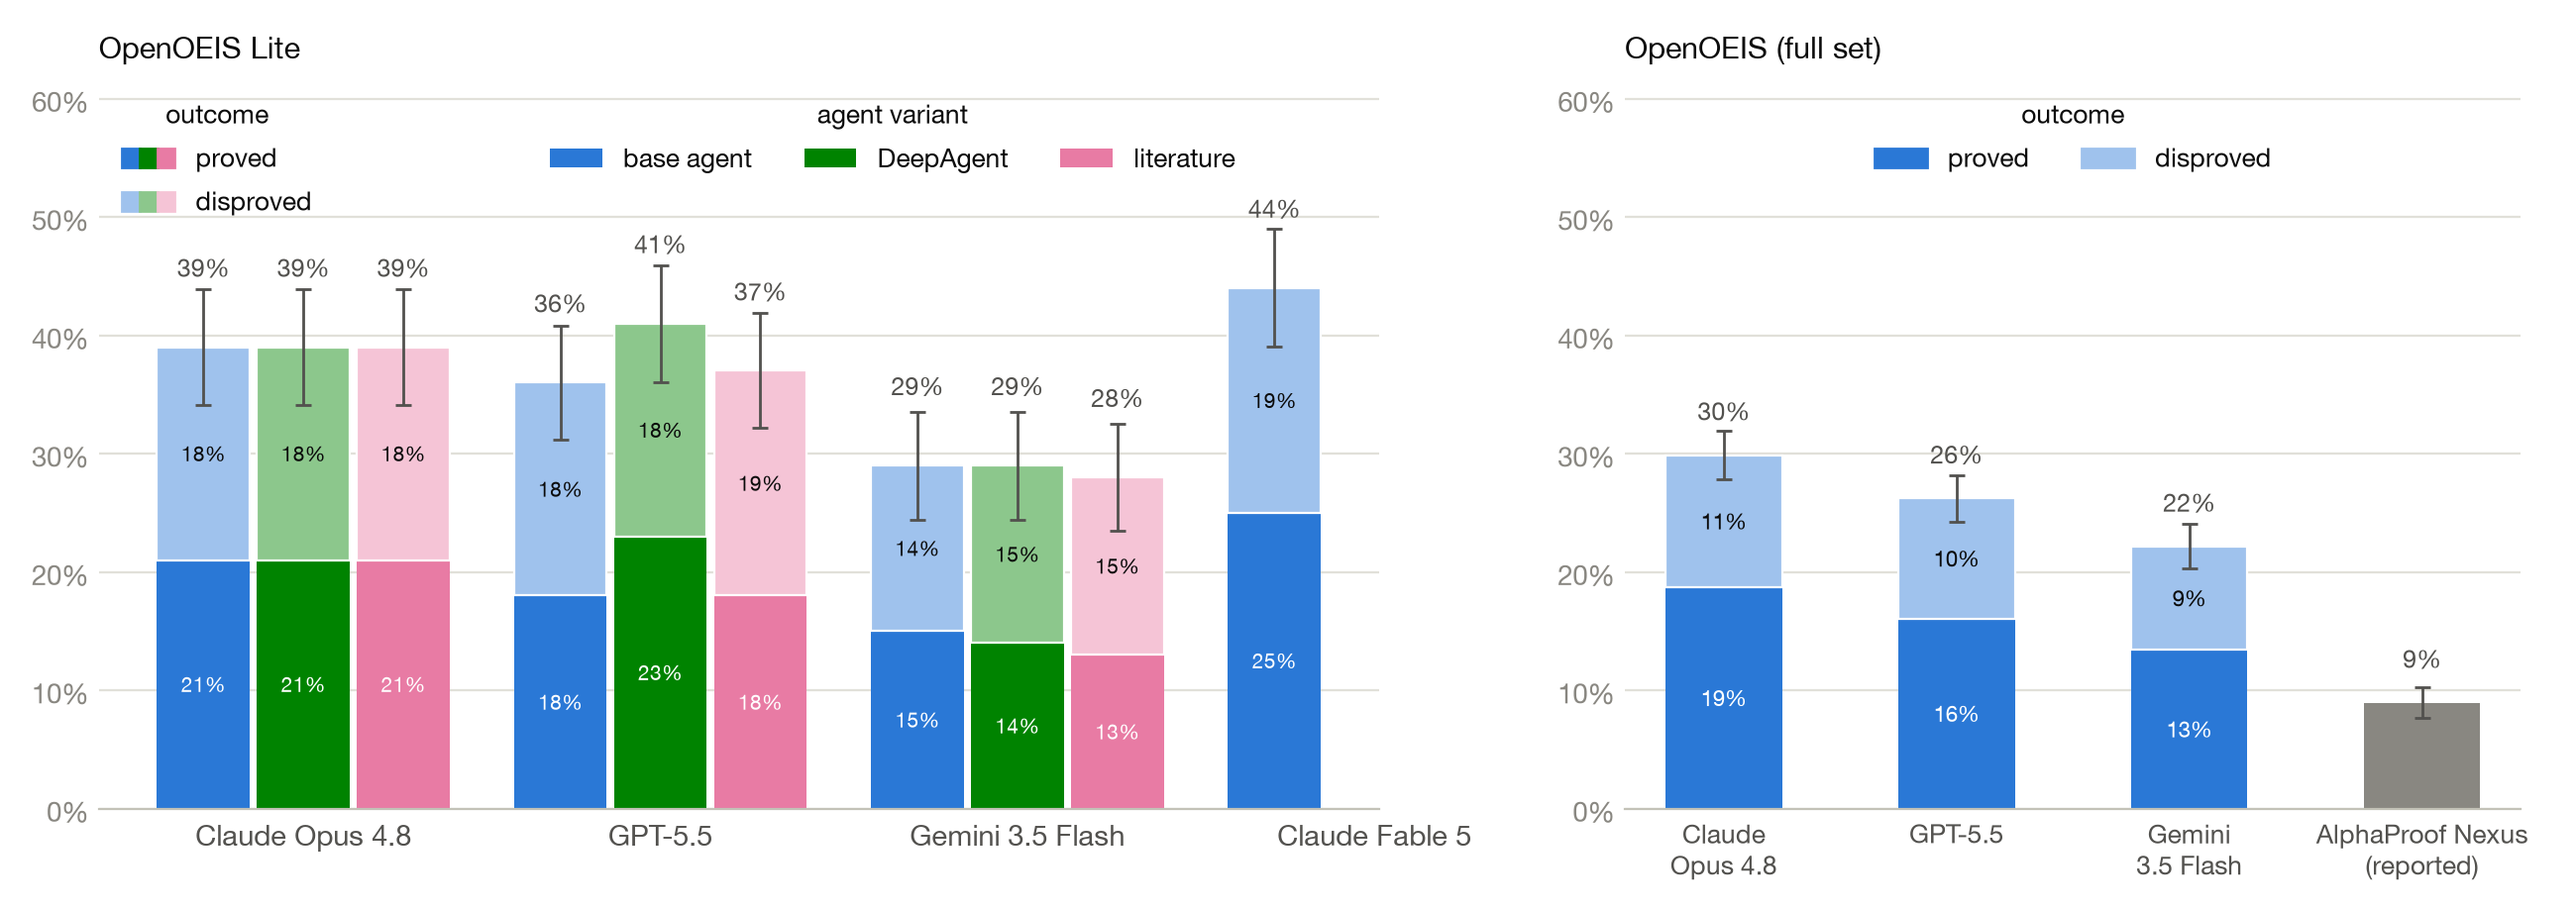
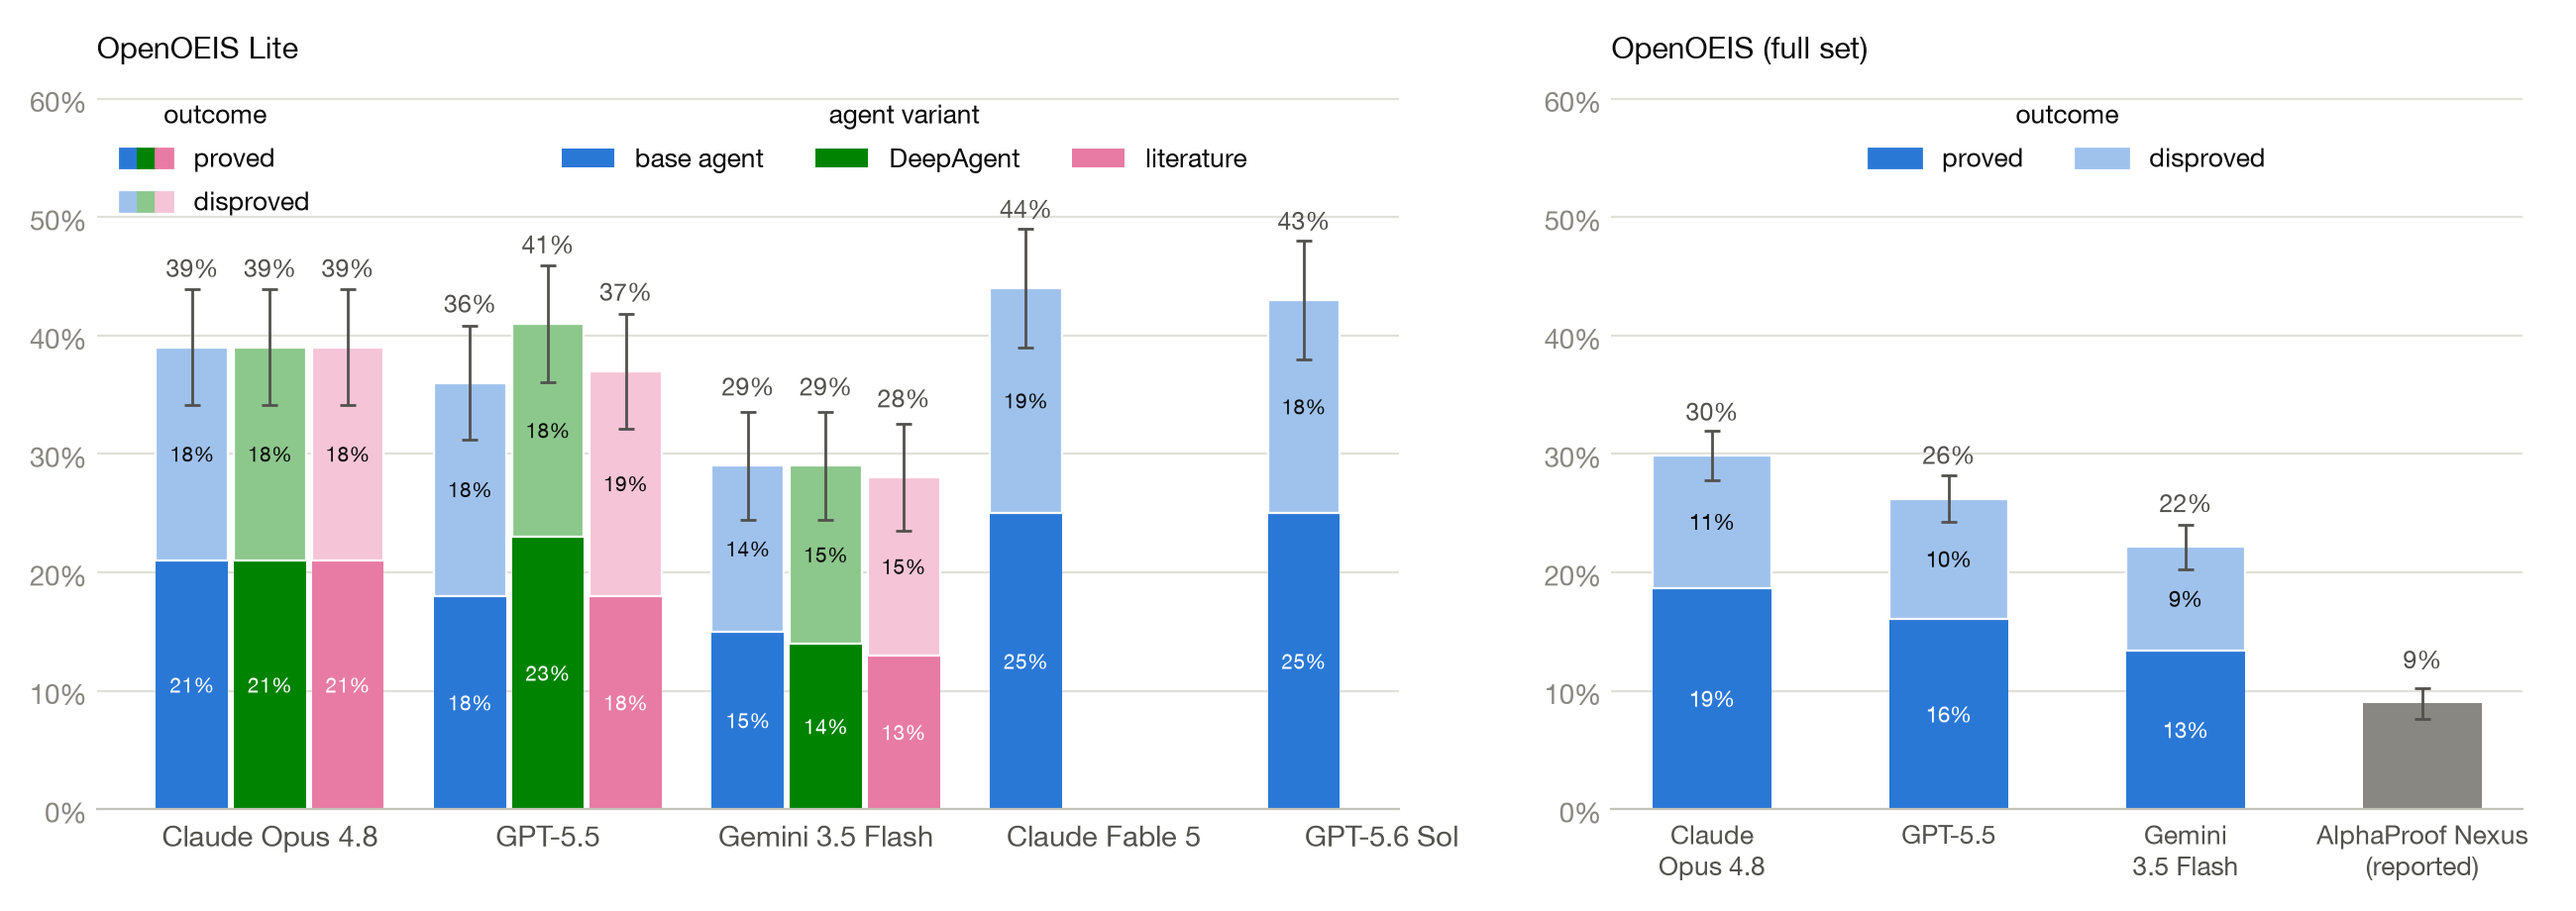
Add GPT-5.6 Sol lite run to accuracy plot; count unscored samples as failures

diff --git a/plots/make_plots.py b/plots/make_plots.py
@@ -27,11 +27,14 @@ for scores_path in LOGS.glob("*/*/scores.json"):
     (scorer,) = data
     m = scorer["metrics"]
     acc, err, n = m["accuracy"]["value"], m["stderr"]["value"], scorer["scored_samples"]
-    proved = disproved = 0
+    proved = disproved = n_dirs = 0
     for sd in scores_path.parent.iterdir():
         if not sd.is_dir():
             continue
-        sc = json.loads((sd / "scores.json").read_text())["proof_scorer"]
+        n_dirs += 1
+        sc = json.loads((sd / "scores.json").read_text()).get("proof_scorer")
+        if sc is None:
+            continue
         if sc["value"] == "C":
             spec = sd / "Submission" / "Spec.lean"
             is_dis = spec.exists() and ".disproof" in spec.read_text(errors="replace")
@@ -42,6 +45,10 @@ for scores_path in LOGS.glob("*/*/scores.json"):
             f"{eval_set}: per-sample solves ({proved}+{disproved})/{n} disagree "
             f"with scores.json accuracy {acc}; incomplete download?"
         )
+    if n_dirs > n:  # unscored (errored) samples count as failures
+        acc = (proved + disproved) / n_dirs
+        err = (acc * (1 - acc) / (n_dirs - 1)) ** 0.5
+        n = n_dirs
     runs[eval_set] = (acc, err, n, proved / n, disproved / n)
 
 VARIANT_LABELS = {"base": "base agent", "deep": "DeepAgent", "lit": "literature"}

diff --git a/plots/bench_names.py b/plots/bench_names.py
@@ -16,7 +16,8 @@ MODEL_LABELS = {
     "oai": "GPT-5.5",
     "gdm": "Gemini 3.5 Flash",
     "fable": "Claude Fable 5",
+    "sol": "GPT-5.6 Sol",
 }
-PROVIDERS = ["ant", "oai", "gdm", "fable"]
+PROVIDERS = ["ant", "oai", "gdm", "fable", "sol"]
 PROVIDER_RE = "|".join(PROVIDERS)
-SERIES = {"ant": "#2a78d6", "oai": "#008300", "gdm": "#e87ba4", "fable": "#4a3aa7"}
+SERIES = {"ant": "#2a78d6", "oai": "#008300", "gdm": "#e87ba4", "fable": "#4a3aa7", "sol": "#eb6834"}
